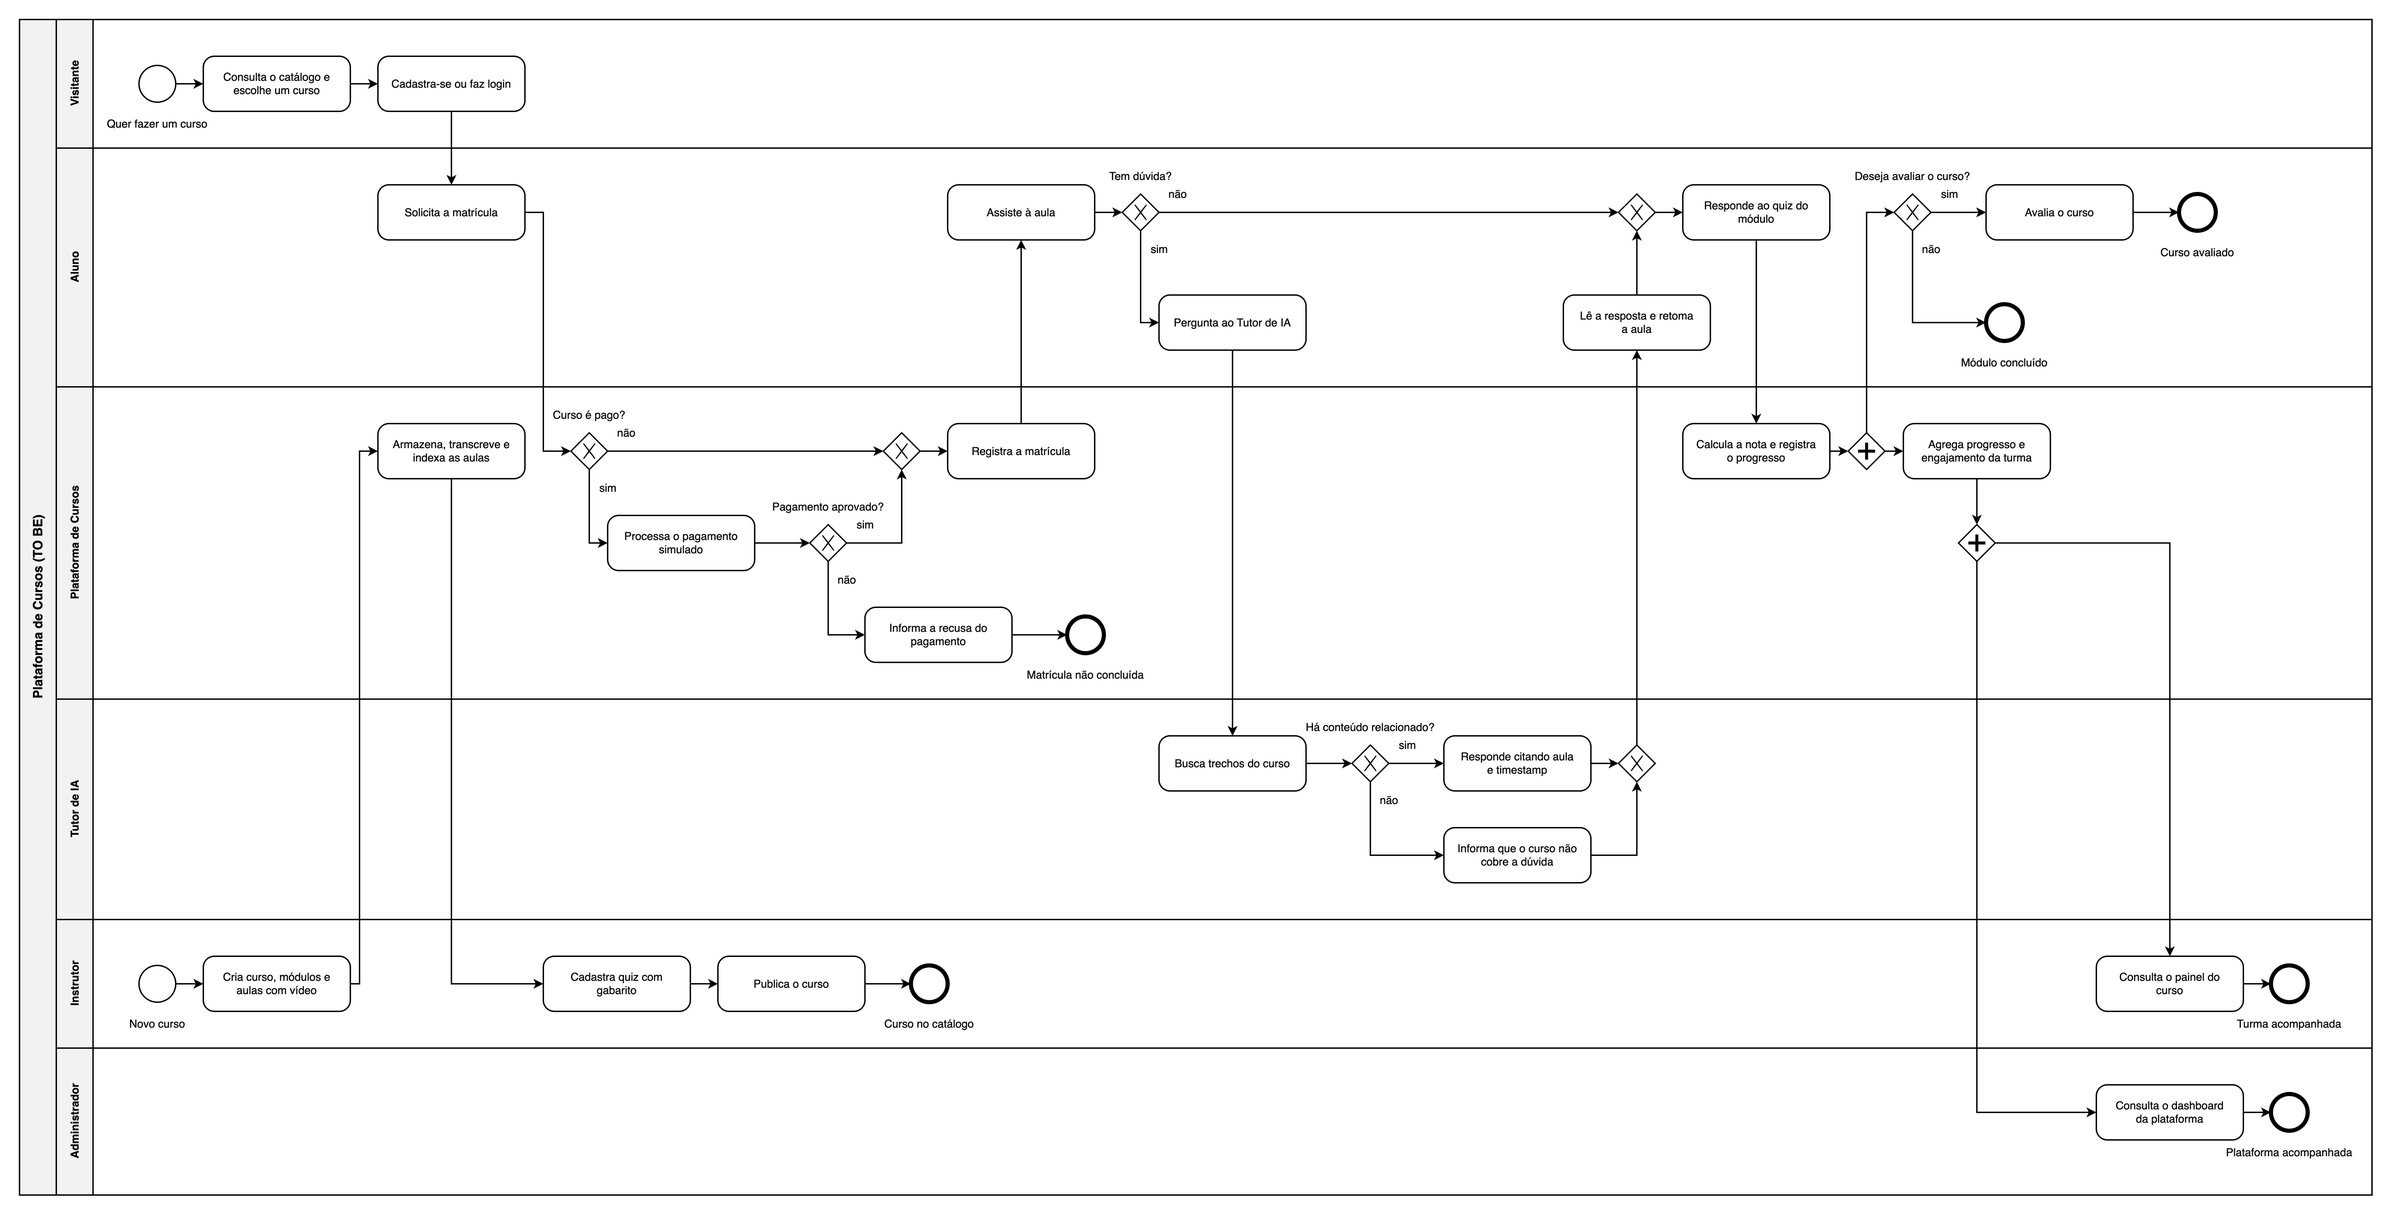
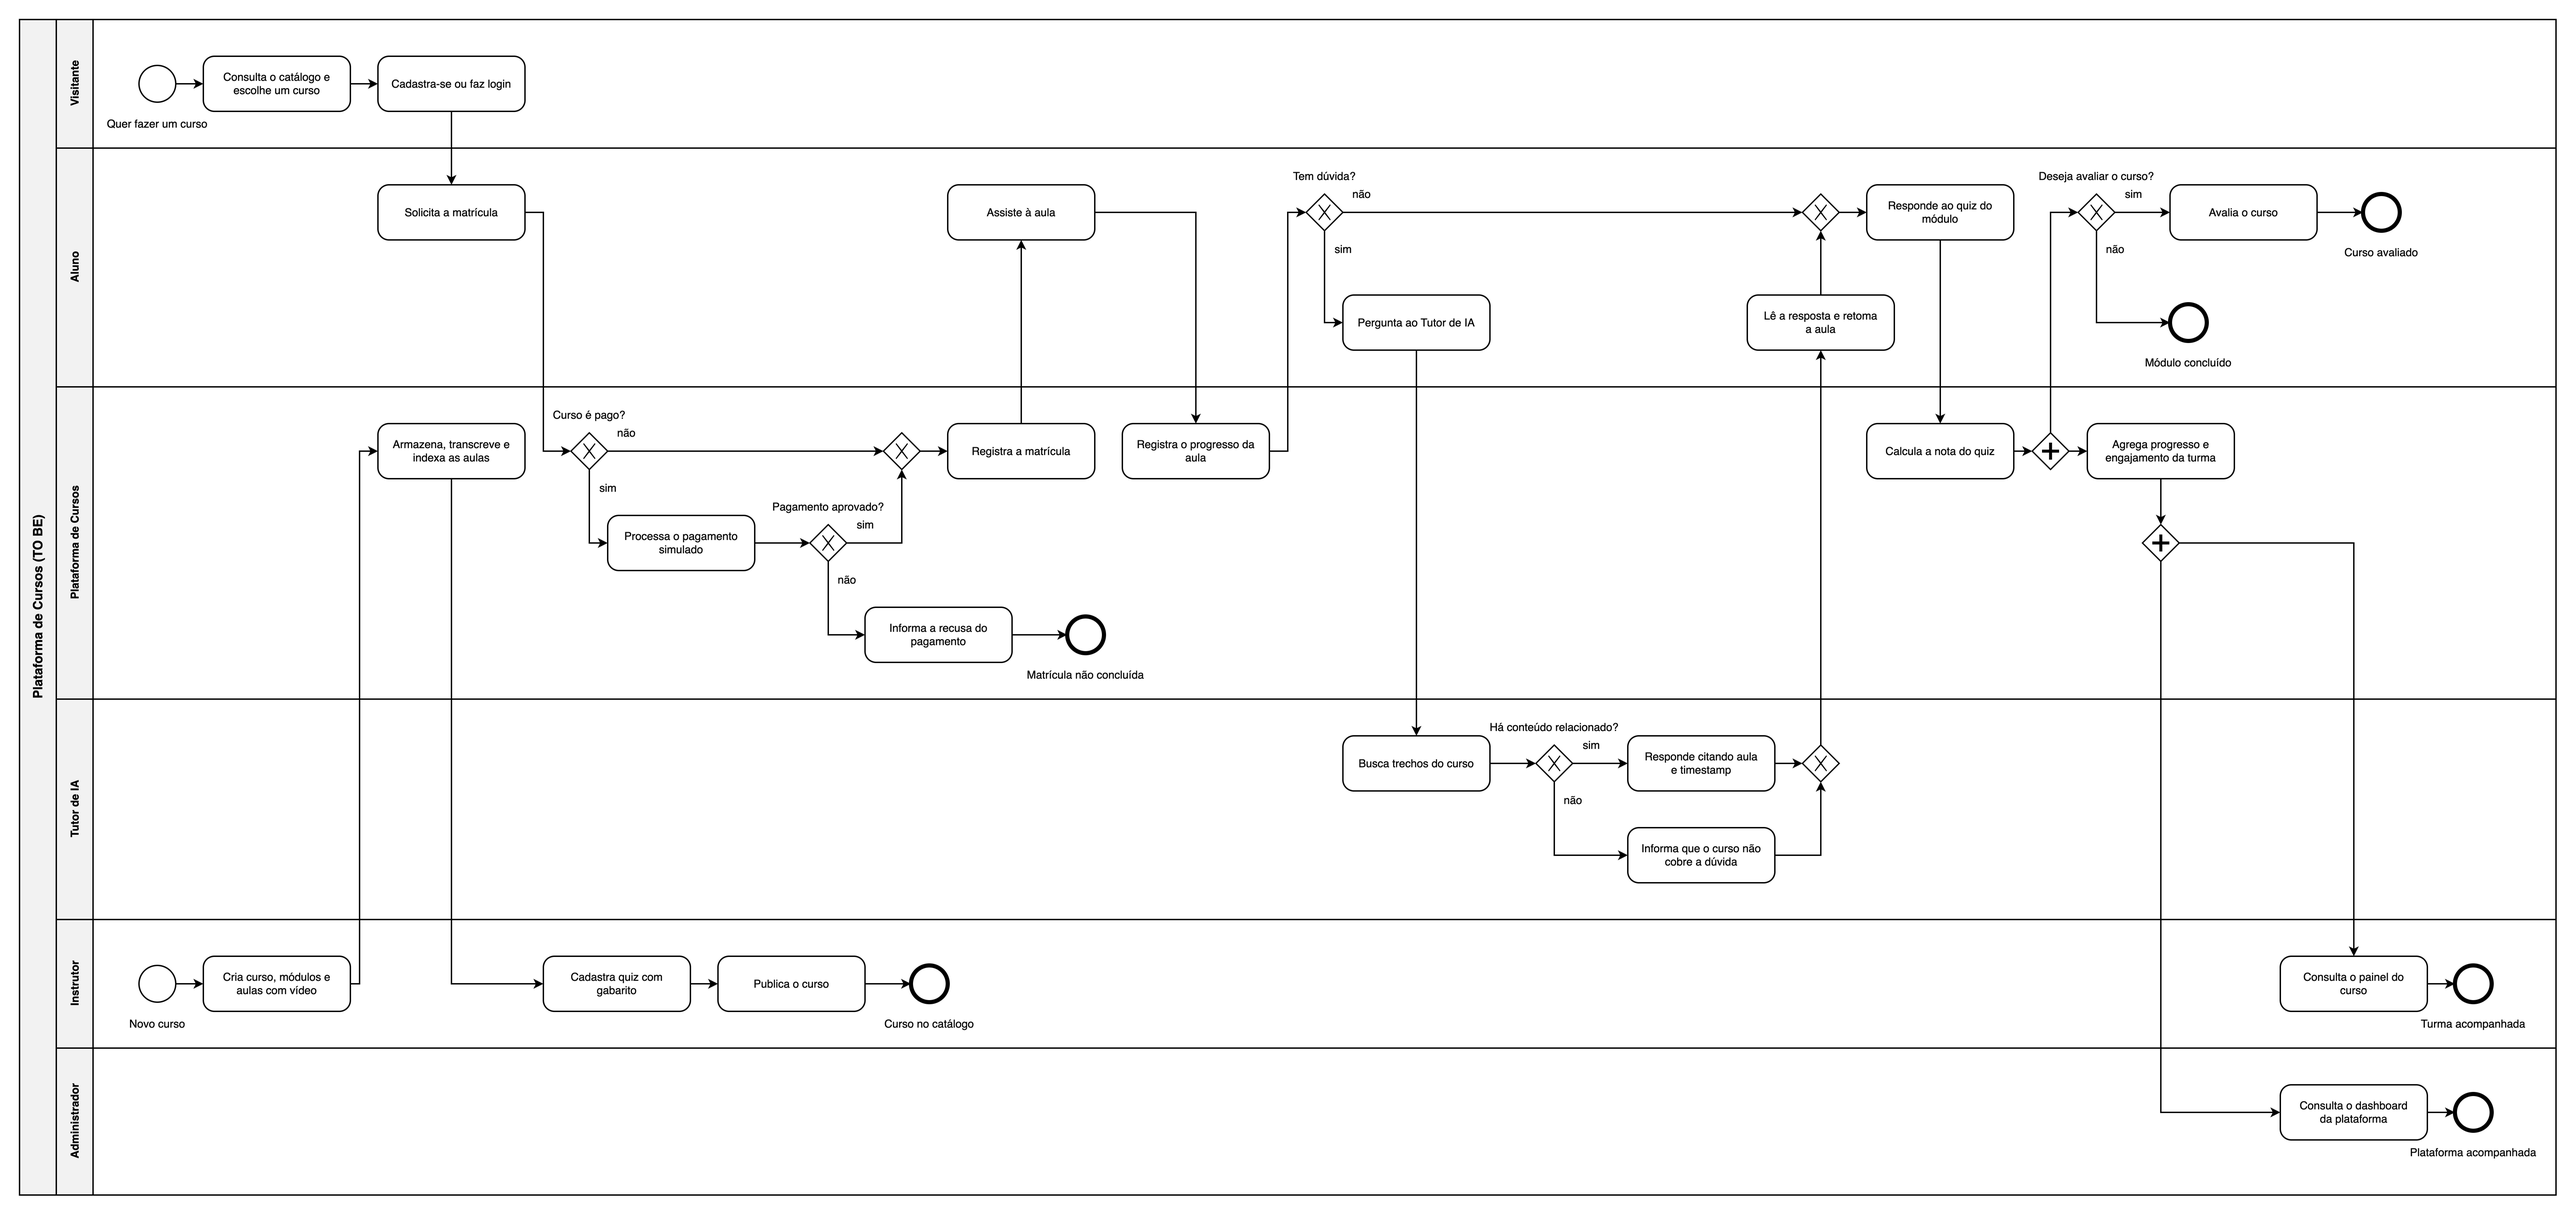
fix(bpmn): separate lesson progress registration from quiz grading
Separate lesson progress tracking from quiz score calculation in the TO BE BPMN process flow (item 4) to align with RF006 and UC009, reflecting progress for students who have watched lessons but not yet answered the quiz.

Add a new task 'Registra o progresso da aula' in the Plataforma de Cursos lane between 'Assiste à aula' and 'Tem dúvida?', rename task p8 to 'Calcula a nota do quiz', widen the pool and lanes by 200 px to preserve zero-crossing orthogonal routing on a 10 px grid, and adjust the section 4 specification narrative.

diff --git a/especificacao/04-mapeamento-de-negocios.md b/especificacao/04-mapeamento-de-negocios.md
@@ -8,9 +8,9 @@ O mapeamento representa o fluxo de valor do produto (TO BE) em um pool, a Plataf
 
 **Visitante e Aluno:** o Visitante consulta o catálogo, escolhe um curso e se cadastra ou faz login; a partir daí atua como Aluno. O Aluno solicita a matrícula (com pagamento simulado se o curso for pago), assiste às aulas e, se tiver dúvida, pergunta ao Tutor de IA. Ao final do módulo, responde ao quiz e pode avaliar o curso.
 
-**Plataforma de Cursos e Tutor de IA:** a Plataforma de Cursos armazena, transcreve e indexa as aulas, processa o pagamento simulado, registra a matrícula, calcula a nota do quiz, registra o progresso e agrega o engajamento da turma. O Tutor de IA busca trechos do curso e responde citando a aula e o timestamp, ou informa que o curso não cobre a dúvida.
+**Plataforma de Cursos e Tutor de IA:** a Plataforma de Cursos armazena, transcreve e indexa as aulas, processa o pagamento simulado e registra a matrícula. A Plataforma de Cursos registra o progresso a cada aula assistida e calcula a nota quando o Aluno responde ao quiz, e a agregação usa os dois. O Tutor de IA busca trechos do curso e responde citando a aula e o timestamp, ou informa que o curso não cobre a dúvida.
 
-**Administrador:** depois que o progresso é registrado, a agregação alimenta em paralelo o painel do Instrutor e o dashboard da plataforma, que o Administrador consulta.
+**Administrador:** depois da agregação, o fluxo alimenta em paralelo o painel do Instrutor e o dashboard da plataforma, que o Administrador consulta.
 
 O gateway paralelo (+) indica caminhos que seguem ao mesmo tempo; os gateways exclusivos (X) indicam decisões com um único caminho. Esse fluxo é a base para a Relação de Requisitos Funcionais (item 6) e para as Especificações de Caso de Uso (item 10).
 
